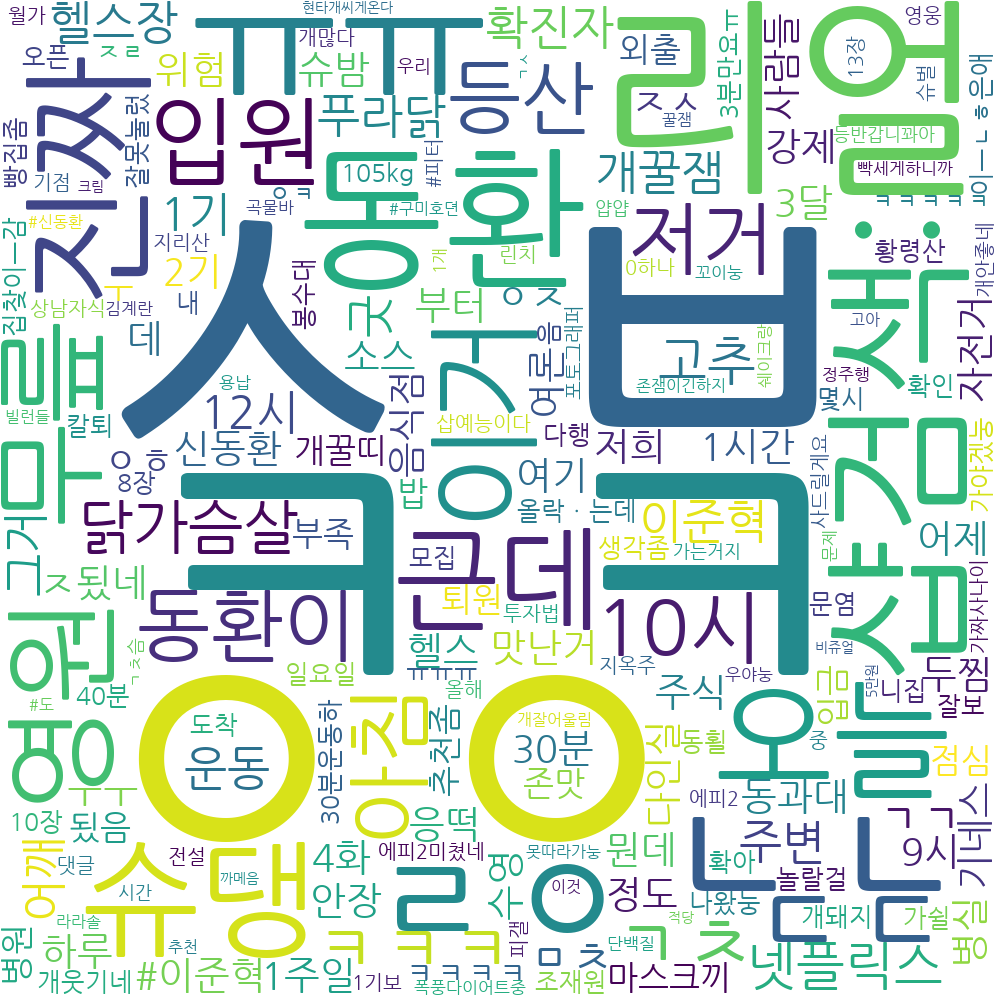
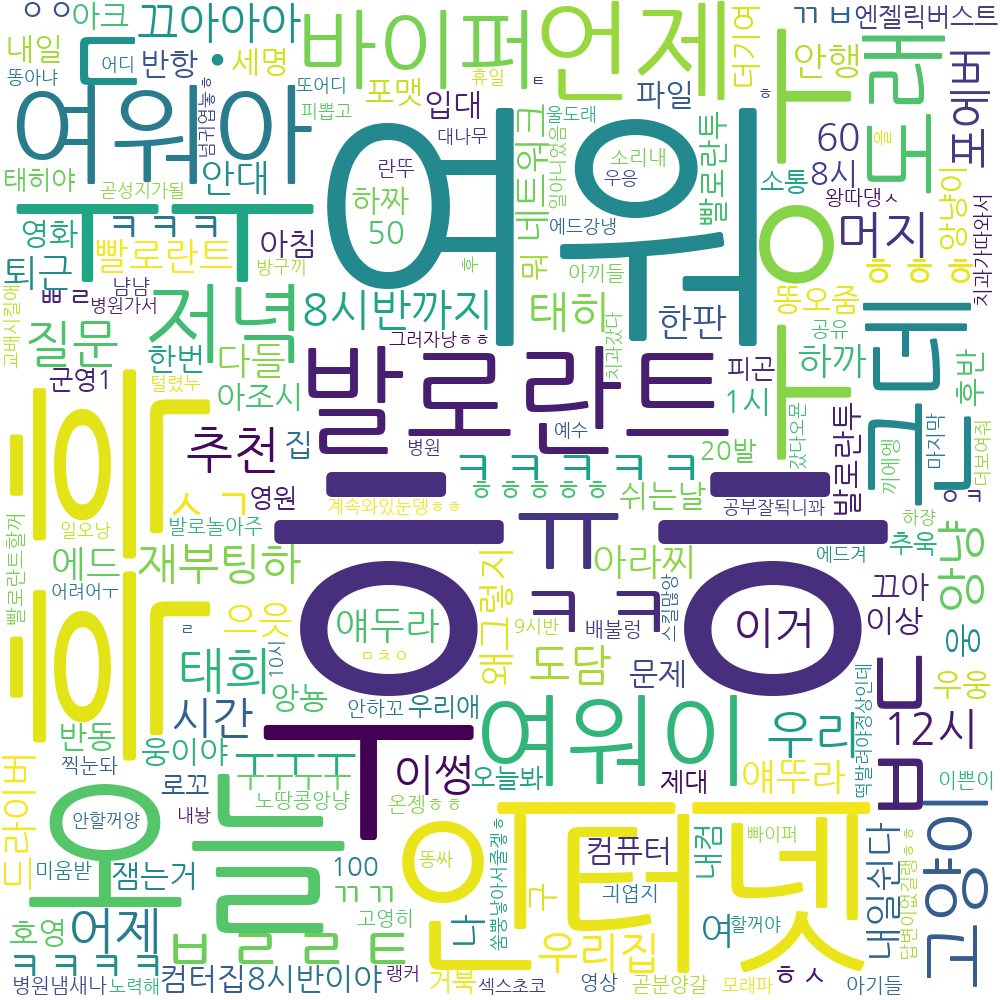
Prevent photos, videos, and emoticons from being extracted

diff --git a/analyze_text.py b/analyze_text.py
@@ -17,6 +17,9 @@ def cleaning_text(text):
     text = re.sub(pattern = '\\d\\d\\d\\d[년]+ \\d[월]+ \\d\\d[일]+ \\w\\w\\w', repl = '', string = text)
     text = re.sub(pattern = '\\d\\d\\d\\d[년]+ \\d\\d[월]+ \\d[일]+ \\w\\w\\w', repl = '', string = text)
     text = re.sub(pattern = '\\d\\d\\d\\d[년]+ \\d\\d[월]+ \\d\\d[일]+ \\w\\w\\w', repl = '', string = text)
+    text = re.sub(pattern = '[사진]+ \\d+[장]', repl = '', string = text)
+    text = re.sub(pattern = '[사진]+ \\d\\d+[장]', repl = '', string = text)
+    text = re.sub(pattern = '[샵검색]+\\:', repl = '', string = text)
     text = re.sub(pattern = '\\n', repl = '', string = text)
     text = text.strip(string.punctuation) # 모든 구두점 삭제
     
@@ -37,6 +40,8 @@ def get_name(text):
 def get_text(text):
     number = text.find(':')
     textT = text[number + 2:]
+    textT = textT.lstrip()
+    textT = textT.rstrip()
 
     return(textT)
 
@@ -52,9 +57,10 @@ def split_text(input_id):
         text = get_text(result)
 
         if (id == input_id):
-            results.append(text)
-            global result_text
-            result_text = result_text + ' ' + text
+            if not (text == '동영상' or text == '이모티콘' or text == '사진'):
+                results.append(text)
+                global result_text
+                result_text = result_text + ' ' + text
     return result_text             
 
 # id = input("분석할 사람의 이름을 입력하세요: ")

diff --git a/make_wordcloud.py b/make_wordcloud.py
@@ -33,5 +33,5 @@ def make_png(id):
     wc.to_file('wordcloud.png')
     print("finished..")
 
-# id = '준혁이'
+# id = '이하승불개'
 # get_freq_used_words(id)
